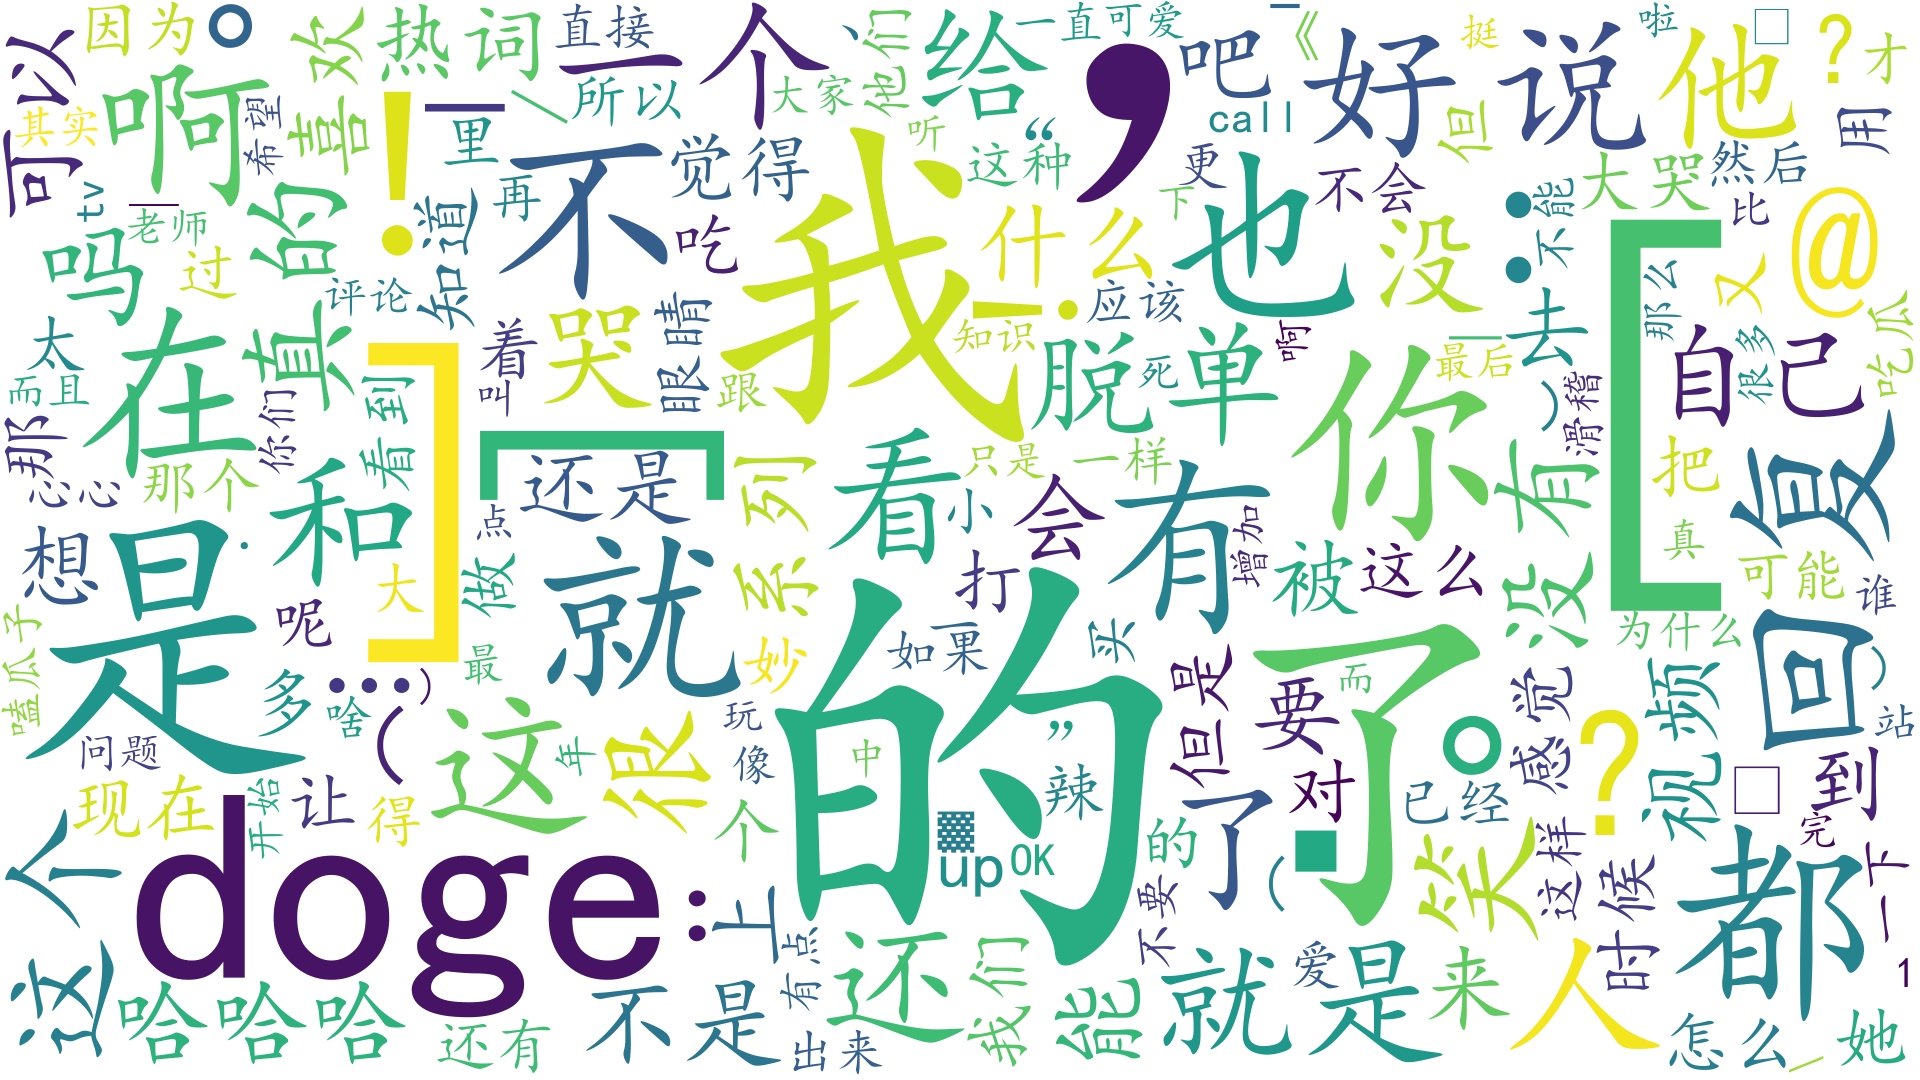
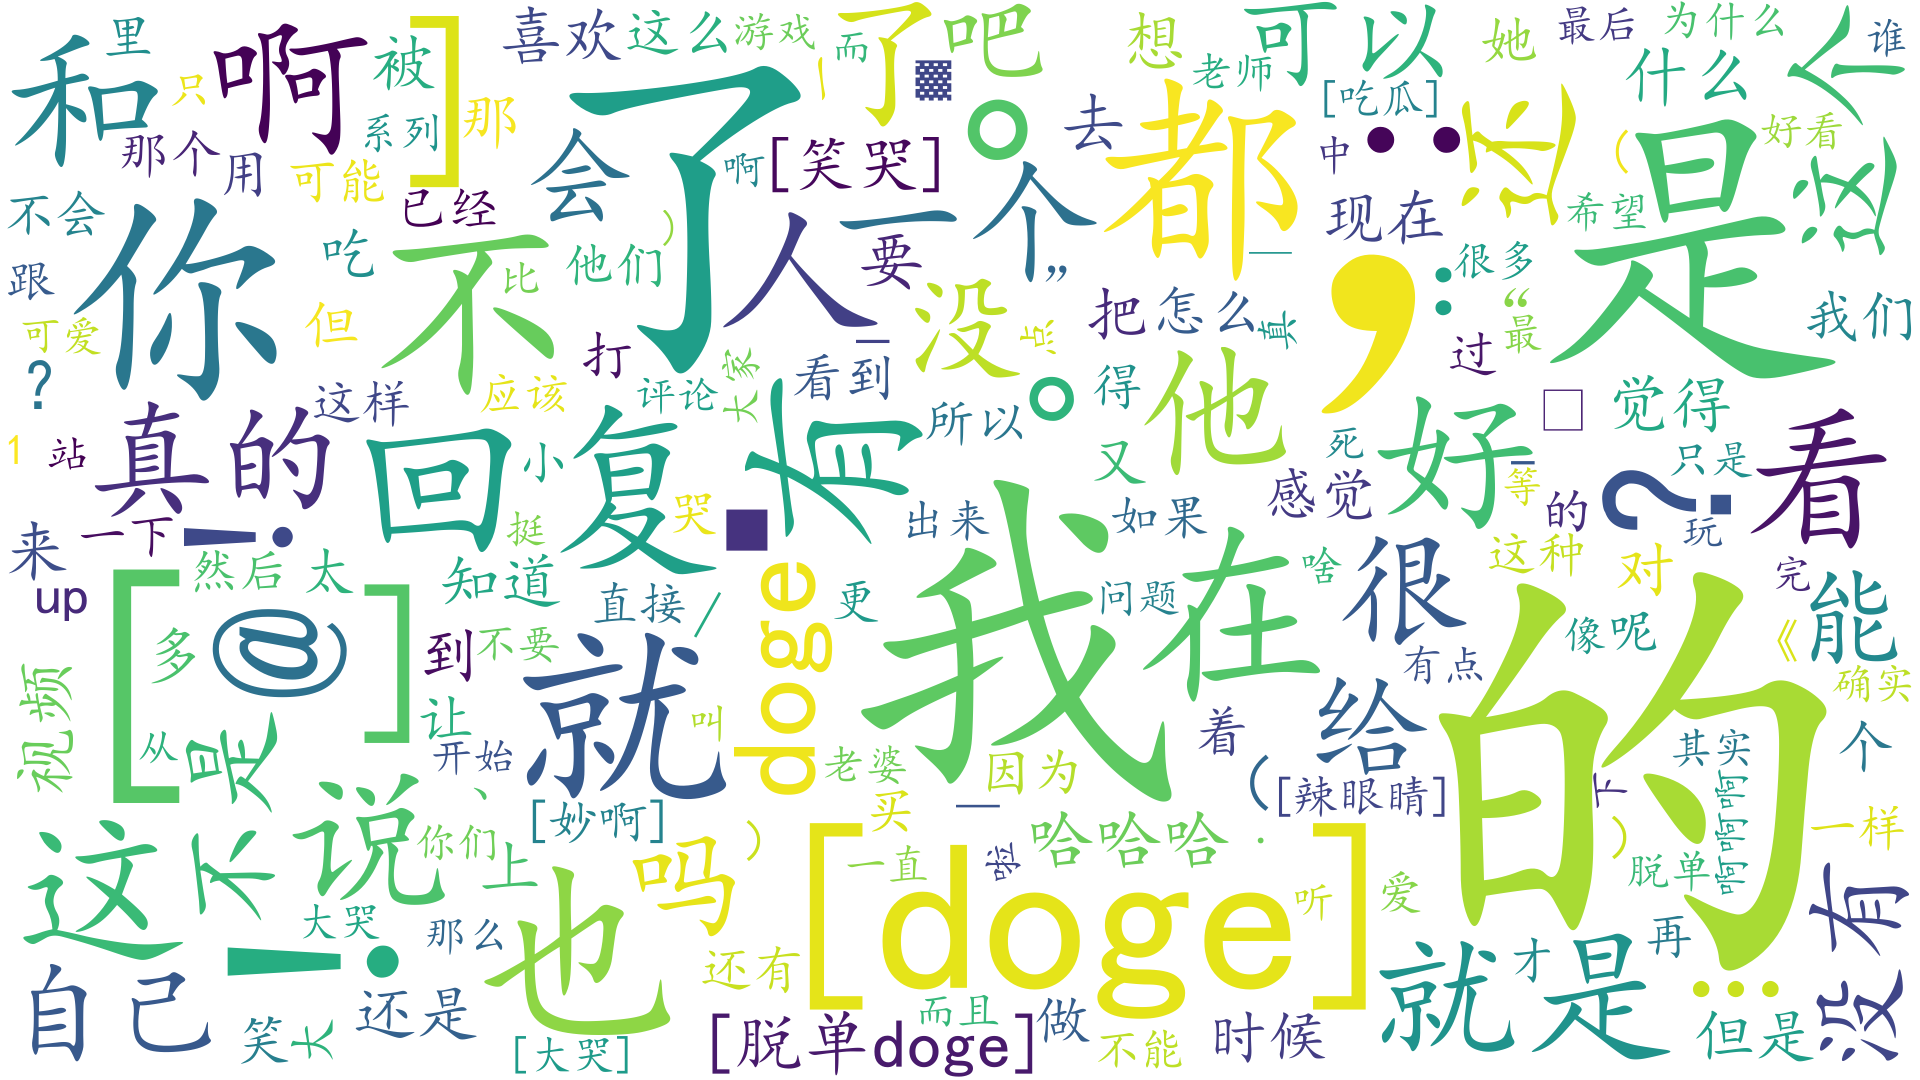
handle emoji

diff --git a/bilibilidump.py b/bilibilidump.py
@@ -68,14 +68,27 @@ def dump_articles_db(fname):
         print('%s articles dumped           ' % article_count)
     db.close()
 
+# 关键字分割（用于处理表情包）
+def keyword_sep(s, kws=[]):
+    for kw in kws:
+        idx = s.find(kw)
+        if (idx != -1):
+            stop2 = idx+len(kw)
+            return (keyword_sep(s[:idx]) + ' ' + s[idx:stop2] + ' ' + keyword_sep(s[stop2:]))
+    return ' '.join([w.strip() for w in jieba.cut(s) if len(w.strip()) > 0])
+
 # 单句分词
 def cut_words(sentence):
     #print sentence
+    tree = keyword_tree(sentence, kws)
     return ' '.join([w.strip() for w in jieba.cut(sentence) if len(w.strip()) > 0])
 
 # 整个文件分词
 def process_dump(fname):
     print('word separation...')
+    dic_f = open('bilidict.txt', 'r', encoding='utf8')
+    kws = [w for w in dic_f.read().split('\n') if len(w.strip()) > 0]
+    dic_f.close()
     target_fname = '%s-seg.txt' % ('.'.join(fname.split('.')[:-1]))
     f = codecs.open(fname, 'r', encoding="utf8")
     target = codecs.open(target_fname, 'w', encoding="utf8")
@@ -84,7 +97,7 @@ def process_dump(fname):
     while line:
         if (line_num % 100 == 0):
             print('%s lines processed            ' % line_num, end='\r')
-        target.writelines(cut_words(line) + '\n')
+        target.writelines(keyword_sep(line, kws) + '\n')
         line_num += 1
         line = f.readline()
     print('%s lines processed            ' % (line_num-1))
